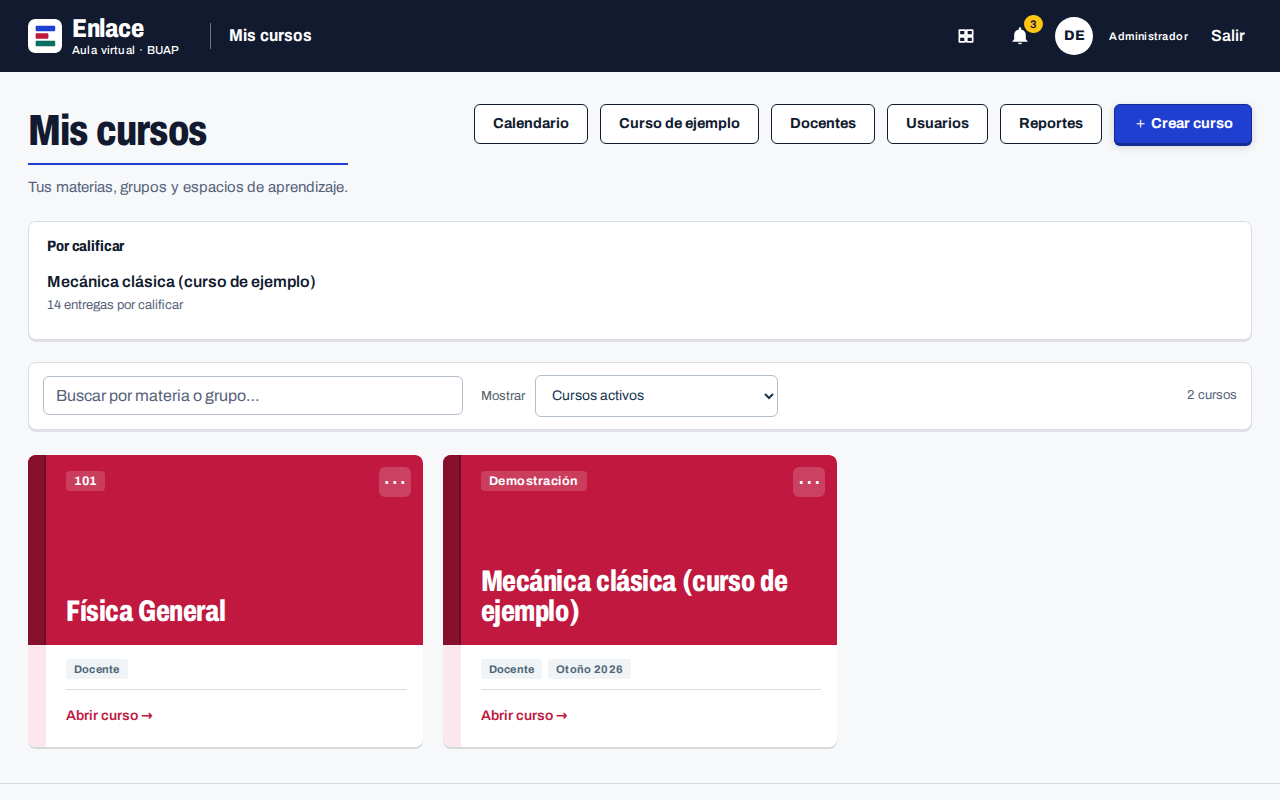
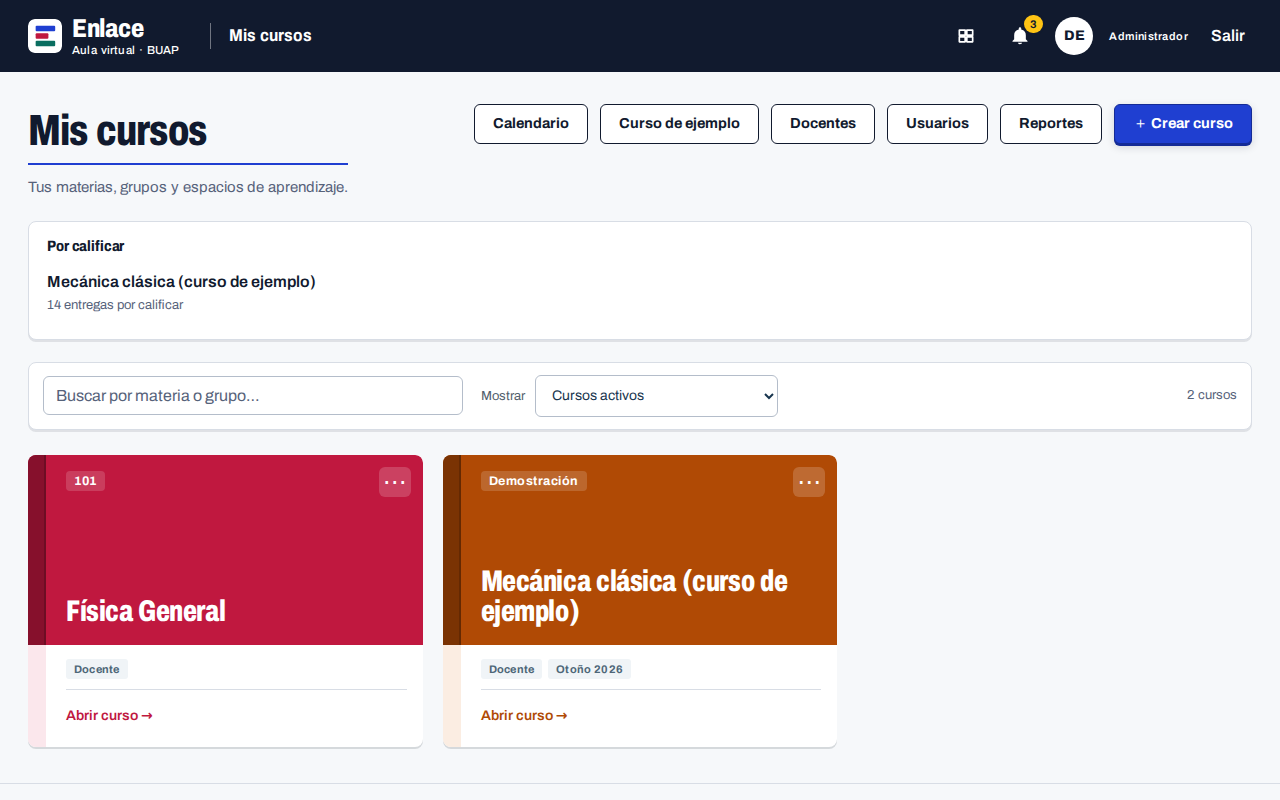
Rediseño 12.37: alerta del libro con subrayado, títulos de material en tinta negra, versión y documentación
Claude-Session: https://claude.ai/code/session_01C1oRgaYWxPpbnk2a9i39sw

Changed region(s): [[0.3438, 0.5625, 0.6562, 0.8125], [0.375, 0.875, 0.4375, 0.9062]]

diff --git a/src/public/coleccion.css b/src/public/coleccion.css
@@ -380,3 +380,8 @@ article.course .course-card-footer .text-btn { color: var(--tomo) !important; }
 .gradebook td { border-right: 1px solid var(--line); }
 /* Sin sesión no hay «Mis cursos» que mostrar en la barra. */
 body.signed-out #crumb { visibility: hidden; }
+/* Alerta del libro: además del rojo, un subrayado grueso (no depende solo del color). */
+.gradebook .grade-low { text-decoration: underline; text-decoration-thickness: 2px; text-underline-offset: 3px; }
+/* Títulos de materiales en tinta negra; la tinta del tomo solo al pasar el cursor (listas largas sin ruido). */
+.material-entry summary strong { color: var(--tinta); }
+.material-entry summary:hover strong { color: var(--tomo); }

diff --git a/DESIGN.md b/DESIGN.md
@@ -1,0 +1,291 @@
+---
+name: Enlace
+description: Aula virtual de la BUAP como una colección de divulgación científica; cada curso es un tomo con su tinta.
+colors:
+  tinta: "#111a2e"
+  tinta-2: "#1d2942"
+  senal: "#ffc414"
+  ink-soft: "#3b475c"
+  ink-faint: "#56627a"
+  line: "#d8dde5"
+  line-strong: "#b4bdca"
+  surface: "#ffffff"
+  canvas: "#f6f8fa"
+  table-head: "#f4f6f9"
+  alerta: "#b42318"
+  cobalto: "#1f3fd1"
+  cobalto-lomo: "#142b96"
+  cobalto-papel: "#e8ecfb"
+  verdete: "#0a6e60"
+  verdete-lomo: "#064a40"
+  verdete-papel: "#e2f1ee"
+  granza: "#c0183f"
+  granza-lomo: "#86102c"
+  granza-papel: "#fbe7ec"
+  ciruela: "#6a2c9e"
+  ciruela-lomo: "#4a1e70"
+  ciruela-papel: "#f0e8f7"
+  ocre: "#b04a05"
+  ocre-lomo: "#7a3303"
+  ocre-papel: "#fbede2"
+  musgo: "#4b6a0f"
+  musgo-lomo: "#33490a"
+  musgo-papel: "#edf2e1"
+typography:
+  display:
+    fontFamily: "Archivo, 'Arial Narrow', sans-serif"
+    fontSize: "clamp(34px, 5vw, 60px)"
+    fontWeight: 800
+    lineHeight: 0.98
+    fontVariation: "'wdth' 70"
+  headline:
+    fontFamily: "Archivo, 'Arial Narrow', sans-serif"
+    fontSize: "clamp(30px, 3.4vw, 44px)"
+    fontWeight: 800
+    lineHeight: 1.04
+    letterSpacing: "-0.02em"
+    fontVariation: "'wdth' 75"
+  title:
+    fontFamily: "Archivo, 'Arial Narrow', sans-serif"
+    fontSize: "20px"
+    fontWeight: 800
+    fontVariation: "'wdth' 80"
+  cover-title:
+    fontFamily: "Archivo, 'Arial Narrow', sans-serif"
+    fontSize: "clamp(24px, 2.4vw, 30px)"
+    fontWeight: 800
+    lineHeight: 1.02
+    letterSpacing: "-0.015em"
+    fontVariation: "'wdth' 72"
+  body:
+    fontFamily: "Archivo, ui-sans-serif, system-ui, -apple-system, 'Segoe UI', sans-serif"
+    fontWeight: 400
+    fontVariation: "'wdth' 100"
+  label:
+    fontFamily: "Archivo, 'Arial Narrow', sans-serif"
+    fontWeight: 800
+    letterSpacing: "0.04em"
+    fontVariation: "'wdth' 85"
+rounded:
+  pill: "4px"
+  sm: "6px"
+  md: "8px"
+spacing:
+  card-gap: "20px"
+  cover-pad: "16px 16px 18px 38px"
+  spine: "18px"
+  spine-hub: "26px"
+components:
+  button-primary:
+    backgroundColor: "{colors.cobalto}"
+    textColor: "{colors.surface}"
+    rounded: "{rounded.sm}"
+  button-primary-hover:
+    backgroundColor: "{colors.cobalto-lomo}"
+  button-secondary:
+    backgroundColor: "{colors.surface}"
+    textColor: "{colors.tinta}"
+    rounded: "{rounded.sm}"
+  button-secondary-hover:
+    backgroundColor: "{colors.cobalto-papel}"
+    textColor: "{colors.cobalto-lomo}"
+  header-bar:
+    backgroundColor: "{colors.tinta}"
+    textColor: "{colors.surface}"
+  tab-bar:
+    backgroundColor: "{colors.cobalto-lomo}"
+    textColor: "{colors.surface}"
+  tab-active:
+    backgroundColor: "{colors.surface}"
+    textColor: "{colors.cobalto-lomo}"
+    rounded: "{rounded.sm}"
+  course-cover:
+    backgroundColor: "{colors.cobalto}"
+    textColor: "{colors.surface}"
+    rounded: "{rounded.md}"
+    padding: "{spacing.cover-pad}"
+    height: "190px"
+  badge-count:
+    backgroundColor: "{colors.senal}"
+    textColor: "{colors.tinta}"
+  count-pill:
+    backgroundColor: "{colors.tinta}"
+    textColor: "{colors.surface}"
+    rounded: "{rounded.pill}"
+  role-pill:
+    backgroundColor: "{colors.cobalto-papel}"
+    textColor: "{colors.cobalto-lomo}"
+    rounded: "{rounded.pill}"
+  input:
+    backgroundColor: "{colors.surface}"
+    textColor: "{colors.tinta}"
+    rounded: "{rounded.sm}"
+  panel:
+    backgroundColor: "{colors.surface}"
+    rounded: "{rounded.md}"
+  toast:
+    backgroundColor: "{colors.tinta}"
+    textColor: "{colors.surface}"
+    rounded: "{rounded.sm}"
+---
+
+# Design System: Enlace
+
+## Overview
+
+**Creative North Star: "La Colección de Divulgación"**
+
+Enlace se ve como una colección de libros de divulgación científica: papel blanco frío, una tinta azul casi negra para el texto y la barra, y seis tintas planas de imprenta. Cada curso es un tomo con su propia tinta (cobalto, verdete, granza, ciruela, ocre o musgo, elegida con `data-theme` 1 a 6 y aplicada al curso abierto con `body[data-tomo]`). La tinta no salpica: llena regiones completas (la portada del tomo, la barra del curso, la pestaña activa, la acción principal).
+
+Es una interfaz con energía, no calmada, pero densa y de trabajo: tablas de columnas fijas, cifras tabulares y títulos condensados pesados que ocupan poco ancho. Rechaza el LMS de tarjetas azul-turquesa, los mosaicos de métricas y las sombras suaves y difusas. Toda la capa vive en `src/public/coleccion.css`, cargada después de `tema.css` y `movil.css`; solo cambia la apariencia.
+
+La marca son tres lomos horizontales que forman una E (cobalto, granza y verdete sobre un cuadro blanco de esquina 7 px), en la barra de `index.html` y en `login.js`.
+
+**Key Characteristics:**
+- Una tinta por tomo, con tres tonos: `--tomo` (plana), `--tomo-lomo` (oscura) y `--tomo-papel` (fondo claro).
+- Texto blanco sobre cualquier tinta y lomo, siempre a más de 4.5:1.
+- Archivo variable: condensada pesada para títulos y portadas, ancho normal para la interfaz.
+- Filete de tinta de 2 px bajo títulos, encabezados de tabla y diálogos.
+- Esquinas de 6 y 8 px; sombras cortas con desplazamiento, nunca difusas en reposo.
+
+## Colors
+
+Papel frío y tinta azul-negra, con seis tintas planas saturadas que solo existen dentro de las regiones del tomo.
+
+### Primary (las tintas del tomo)
+Cada tinta trae su lomo (hover, barra de pestañas, lomo de la portada) y su papel (fondos de selección, pastillas, avisos).
+- **Cobalto** (#1f3fd1 / lomo #142b96 / papel #e8ecfb): tinta por omisión (`:root` y tema 1).
+- **Verdete** (#0a6e60 / #064a40 / #e2f1ee): tema 2.
+- **Granza** (#c0183f / #86102c / #fbe7ec): tema 3.
+- **Ciruela** (#6a2c9e / #4a1e70 / #f0e8f7): tema 4.
+- **Ocre** (#b04a05 / #7a3303 / #fbede2): tema 5.
+- **Musgo** (#4b6a0f / #33490a / #edf2e1): tema 6.
+
+Las capas viejas leen `--c1`, `--c2`, `--brand`, `--accent` y `--link`; `coleccion.css` las vuelve a declarar en cada elemento con tinta para que apunten a `--tomo`.
+
+### Secondary
+- **Amarillo de Señal** (#ffc414): solo contadores (`.badge-count`), la barra de vista previa y el reloj del examen en aviso. Tinta encima (10.9:1).
+- **Rojo de Alerta** (#b42318): calificación baja en el libro y nada más.
+
+### Neutral
+- **Tinta de Colección** (#111a2e): texto, barra superior fuera de un curso, encabezado del intento, avisos emergentes, anillo de foco.
+- **Tinta 2** (#1d2942): variante de la tinta.
+- **Gris Pizarra** (#3b475c): texto secundario (`--ink-soft`).
+- **Gris Nota** (#56627a): texto tenue, marcadores y pie (`--ink-faint`); no hay texto más claro que este.
+- **Papel Frío** (#f6f8fa): fondo de la página (`--canvas`).
+- **Blanco** (#ffffff): paneles y campos.
+- **Encabezado de Tabla** (#f4f6f9): fondo de `th` y de guías.
+- **Filete** (#d8dde5) y **Filete Fuerte** (#b4bdca): bordes de paneles y de campos.
+
+### Named Rules
+**The Tinta en Regiones Rule.** La tinta del tomo llena regiones completas (portada, barra, pestaña activa, botón principal, elemento activo del índice); no se usa como salpicadura decorativa ni en degradados.
+
+**The Una Acción Rule.** Un solo color de acción por contexto: la tinta del tomo abierto (o cobalto fuera de un curso).
+
+**The Señal Escasa Rule.** El amarillo #ffc414 solo marca lo que pide atención; nunca es fondo de sección ni decoración.
+
+**The Cifra Neutra Rule.** En el libro las calificaciones aprobadas van en tinta (#111a2e), nunca en la tinta del tomo: con granza parecerían reprobadas. Solo la baja va en rojo (#b42318). Sin rellenos pastel en las celdas.
+
+## Typography
+
+**Display Font:** Archivo variable (pesos 100–900, ancho 62–125 %), con 'Arial Narrow' como respaldo.
+**Body Font:** Archivo al 100 % de ancho, con ui-sans-serif y system-ui.
+
+**Character:** Una sola familia en dos voces: condensada y pesada para títulos y portadas (como el lomo de un libro), normal para leer y trabajar. Se sirve local desde `src/public/vendor/archivo/` (latin y latin-ext).
+
+### Hierarchy
+- **Display** (800, clamp(34px, 5vw, 60px), 0.98, ancho 70 %): título del curso en la portada del tomo (`.hub-banner h1`); 34 px en el teléfono.
+- **Headline** (800, clamp(30px, 3.4vw, 44px), 1.04, −0.02em, ancho 75 %): `h1` de cada pantalla, con filete de 2 px de la tinta; 30 px en el teléfono.
+- **Título de portada** (800, clamp(24px, 2.4vw, 30px), 1.02, ancho 72 %): nombre del curso en el estante, blanco, hasta tres líneas.
+- **Title** (800, 20px, ancho 80 %): `h2` de paneles; diálogos a 24 px y 78 %; `h2` genérico 750 al 85 %, `h3` 700 al 90 %.
+- **Body** (400, ancho 100 %): todo el texto de interfaz; `word-spacing: 0.04em` porque el espacio de Archivo es angosto.
+- **Label** (800, ancho 85 %, 0.04em): encabezados de tabla, con filete inferior de 2 px de tinta.
+
+### Named Rules
+**The Espacio Abierto Rule.** En anchos condensados (títulos, portadas, `th`) se abre el espacio entre palabras a 0.08em.
+
+**The Cifra Tabular Rule.** Tablas, libro, reloj del examen y contadores usan `font-variant-numeric: tabular-nums`.
+
+## Layout
+
+La página es una columna (`.shell`) sobre papel frío (#f6f8fa): barra de tinta, barra de pestañas del lomo y contenido. Mis cursos es un estante de portadas con separación de 20 px. Las portadas reservan a la izquierda el lomo (18 px en el estante, 26 px en la portada del curso) y su relleno lo respeta (38 px en el estante, 58 px en la portada del curso).
+
+Hasta 720 px la barra de pestañas se cambia por `#bottomnav` (blanco, con filete superior de 2 px de la tinta; la pestaña activa en el lomo sobre papel de la tinta), las portadas del estante se vuelven franjas de al menos 112 px con lomo de 14 px, y la portada del curso usa lomo de 18 px. En el celular, lo siguiente va primero.
+
+## Elevation & Depth
+
+Plano por omisión: los paneles se separan por filete (1 px #d8dde5) y una sombra corta con desplazamiento, sin difuminado.
+
+### Shadow Vocabulary
+- **Desplazamiento de panel** (`box-shadow: 0 2px 0 rgba(17, 26, 46, 0.1)`): paneles, tarjetas del inicio, tablas, entradas de material, unidades, acceso.
+- **Portada en el estante** (`box-shadow: 0 2px 0 rgba(17, 26, 46, 0.14)`); al pasar el puntero, `0 3px 0` del lomo de la tinta.
+- **Botón principal** (`box-shadow: 0 2px 0 var(--tomo-lomo), 0 3px 8px rgba(17, 26, 46, 0.16)`); al presionar baja a `0 1px 0`.
+- **Diálogo y acceso** (`--shadow-lg: 0 14px 34px rgba(17, 26, 46, 0.2)`): solo lo que flota sobre la página.
+
+### Named Rules
+**The Desplazamiento Corto Rule.** Las superficies en la página se levantan con un desplazamiento de 2 a 3 px, no con un halo difuso; la sombra grande queda para diálogos.
+
+**The Nada Se Mueve Rule.** Los estados se marcan con color y sombra, nunca con `transform` (las portadas anulan el `translate` de capas viejas).
+
+## Shapes
+
+Esquinas moderadas: 6 px (`--radius-sm`) en botones, campos, menús y avisos; 8 px (`--radius`) en paneles, portadas, diálogos y la caja de acceso; 4 px en pastillas y código de curso. Los filetes de tinta son de 2 px; los bordes de campos y del botón secundario de 1.5 px. El lomo es una franja rectangular a todo lo alto de la portada, con una sombra interior de 2 px.
+
+## Components
+
+### Buttons
+- **Shape:** esquina de 6 px, peso 700.
+- **Primary:** fondo de la tinta, borde de 1 px del lomo, texto blanco, sombra de desplazamiento del lomo. Hover: fondo del lomo.
+- **Secondary:** fondo blanco, borde de 1.5 px de tinta, texto de tinta. Hover: papel de la tinta, borde de la tinta, texto del lomo.
+- **Texto / enlace de tabla:** tinta del tomo, 700; hover al lomo con subrayado.
+- **Focus:** contorno de 3 px de tinta con 2 px de separación; dentro de un curso, del lomo; en barras de tinta, blanco.
+- **Disabled:** opacidad 0.55, sin sombra.
+
+### Chips
+- **Pastilla de rol / estado:** papel de la tinta con texto del lomo, esquina de 4 px, 700.
+- **Pastilla de conteo:** tinta (#111a2e) con texto blanco.
+- **Contador de avisos:** amarillo de señal con tinta, aro de 2 px del color de la barra.
+
+### Cards / Containers
+- **Corner Style:** 8 px.
+- **Background:** blanco sobre papel frío.
+- **Shadow Strategy:** desplazamiento de panel (ver Elevation).
+- **Border:** 1 px #d8dde5.
+- **Títulos:** `h2` condensado 800 a 20 px.
+
+### Inputs / Fields
+- **Style:** borde de 1.5 px #b4bdca, esquina de 6 px, marcador en #56627a.
+- **Focus:** borde de la tinta y aro de 3 px del papel de la tinta; `accent-color` y `caret-color` de la tinta.
+
+### Navigation
+- **Barra superior:** tinta (#111a2e) en Mis cursos, la tinta del tomo dentro de un curso; transición de color de 0.45 s `cubic-bezier(0.16, 1, 0.3, 1)` (sin transición con movimiento reducido). Marca condensada 800 a 26 px en blanco.
+- **Pestañas (`#topnav`):** fondo del lomo, texto blanco 600; hover blanco al 16 %; activa en bloque blanco con texto del lomo, 800.
+- **Pestañas de pantalla (`.home-tabs`):** subrayado de la tinta, activa en 800.
+- **Índice de unidades:** el elemento activo es un bloque lleno de la tinta con texto blanco.
+
+### Portada del tomo (signature)
+En el estante: tinta plana a lo ancho, lomo de 18 px a la izquierda, código del grupo en una etiqueta blanca al 16 %, título condensado blanco abajo a la izquierda, al menos 190 px de alto; toda la portada abre el curso y el menú «⋯» queda encima. Con imagen de portada, un velo de tinta (#111a2e del 20 al 78 %) sobre la foto. Archivada, en gris (`grayscale(0.85)`). Dentro del curso, `.hub-banner` repite la portada a mayor escala con lomo de 26 px; las tarjetas de unidad alternan tinta y lomo.
+
+### Diálogo y avisos
+Diálogo de 8 px sin borde, sombra grande y filete de 2 px de la tinta bajo el encabezado (título 24 px condensado). Avisos (`.notice`) en papel de la tinta con título del lomo. Notificación emergente (`#toast`) en tinta con texto blanco.
+
+### Intento de evaluación
+Encabezado fijo en tinta con texto blanco; el reloj pasa a amarillo de señal en aviso y a #ff8a8a cuando queda poco. La opción elegida se marca con papel de la tinta y un aro interior de 1.5 px de la tinta.
+
+## Do's and Don'ts
+
+### Do:
+- **Do** tomar todo color de acción de `--tomo`, `--tomo-lomo` y `--tomo-papel`, para que la pantalla cambie con el curso.
+- **Do** poner texto blanco sobre la tinta y el lomo, y texto del lomo sobre el papel de la tinta.
+- **Do** poner el filete de 2 px de la tinta bajo el `h1` de cada pantalla.
+- **Do** usar Archivo condensada (ancho 70–85 %, 700–800) para títulos y ancho 100 % para la interfaz.
+- **Do** separar superficies con filete de 1 px y desplazamiento `0 2px 0`.
+- **Do** dejar el texto tenue en #56627a o más oscuro.
+
+### Don't:
+- **Don't** usar sombras difusas en paneles o tarjetas en reposo; la sombra grande es solo para diálogos y la caja de acceso.
+- **Don't** usar `transform` en `:hover` o `:active`.
+- **Don't** pintar calificaciones aprobadas con la tinta del tomo ni rellenar celdas del libro con colores pastel.
+- **Don't** usar el amarillo de señal fuera de contadores, la barra de vista previa y el reloj.
+- **Don't** poner antetítulos sobre los títulos (`.workspace-eyebrow` está oculto).
+- **Don't** mezclar dos tintas de tomo en la misma pantalla de curso.

diff --git a/CLAUDE.md b/CLAUDE.md
@@ -83,9 +83,10 @@ Navegador para revisar la interfaz: la habilidad `playwright-cli` (`.claude/skil
 - **12.34 (seguridad)**: `assertWritable()` revisa el `course` de la URL **y** el del cuerpo (cualquiera archivado → 409). `POST /api/attempt` sin `aula_attempt_starts` llama `assertOpen()` y, si hay `startCodeOf()`, exige empezar. Topes de códigos (examen, `/api/attempt/unlock`, PIN de asistencia): el fallo se cuenta **antes** de comparar con un `UPSERT/UPDATE … WHERE contador < tope RETURNING` y se descuenta al acertar; cualquier tope nuevo debe hacerse igual (leer y luego comparar permite solicitudes paralelas). `/api/upload` aparta la fila de `aula_files` con un `INSERT … SELECT … WHERE` condicionado a las cuotas antes del `put` en R2. Las altas de alumnos no tocan filas `role='teacher'`. SEB: la llave que arma Enlace se puede calcular con datos públicos (límite documentado en `LEEME.md`, disuasivo). Prueba: `scripts/test-seguridad.mjs` (con solicitudes en paralelo).
 - **Diseño 12.35**: `--ink-faint` es `#5f6f7e` (≥ 4.5:1 sobre blanco, `--canvas` y paneles); no uses grises más claros para texto. `.shell` es una columna flex (pie de página al fondo): sus hijos llevan `width: 100%` para que una tabla ancha no ensanche la página. La ayuda del libro va en `details.grade-help` (abierto salvo en ≤ 720 px; en las pruebas de interfaz no hay `matchMedia`). En ≤ 720 px el índice de unidades es una fila deslizable y los botones de texto miden ≥ 24 px. Auditoría: capturas a 360 y 1280 px con contraste, objetivos táctiles, `h1` y desbordamiento horizontal.
 - **Diseño 12.36** (crítica de impeccable en `.impeccable/critique/`, `PRODUCT.md`): en el intento, `#quizAnswered` y `#quizClockAlert` (avisos a 5 y 1 min) en `.quiz-attempt-head`, fijo también en ≤ 720 px; el envío manual pasa por `examConfirm()` desde un `submit` en captura (`form.dataset.confirmed`), el automático por tiempo no; `quizLastResult.fresh` lleva la vista al resultado. `studentPendingTasks()` (`movil.js`) es la misma regla que «Por entregar» de `dashboard.js` (ventana −7/+14 días): úsala para cualquier conteo de pendientes del alumno; `studentTaskState()` (`workspace.js`) ordena Actividades del alumno. Anillo de foco sólido `#0a7383`; acento oscuro `#0a7383` para texto pequeño y fondos con texto blanco. `teacherQuestionText()`/`teacherFormula()` marcan los datos por alumno con `var.qvar`. `details.more-actions` agrupa acciones poco frecuentes.
+- **Rediseño «Colección» 12.37** (`src/public/coleccion.css`, capa superior cargada después de `movil.css`; contrato en `.impeccable/surfaces/`, sistema en `DESIGN.md`): cada curso es un tomo con su tinta `--tomo`/`--tomo-lomo`/`--tomo-papel`, de `data-theme` (1–6) en portadas y de `body[data-tomo]` (lo pone `workspaceNav()`) en el curso abierto; `--brand`/`--accent`/`--link` se redeclaran en cada elemento con tinta (una variable con `var()` se resuelve donde se declara). Barra fuera de curso en `--tinta` #111a2e; `--senal` (amarillo) solo para contadores. Tipografía Archivo variable (`vendor/archivo/`), condensada para títulos; Inter ya no existe. Sin antetítulos (`.workspace-eyebrow` oculto). Logotipo de tres lomos en `index.html` y `login.js`; íconos de `icons/` generados del mismo SVG (`sw.js` usa la caché `enlace-v2`). Ajusta la apariencia en `coleccion.css`.
 - **Curso de ejemplo** (`demo.js`, `POST /api/demo-course`): arma en memoria una materia completa con alumnos ficticios (`@ejemplo.invalid`, sin `user_id`; sus publicaciones e intentos usan `demo:<miembro>` como autor) y la inserta en un solo `db.batch` con `json_each` por tabla. Si cambias el esquema de una tabla que llena, actualiza `demoCourse()` y `scripts/test-curso-ejemplo.mjs`.
 - **Respaldos y publicación**: `backup.js` (solo admin) lista los objetos de R2 (uno por llave: `coalesce(r2_key, id)`), los sirve como adjunto y restaura solo los que faltan, registrados y con el tamaño exacto; la pantalla está en `admin-tools.js` (`backupFiles`/`restoreFiles` sobre `showDirectoryPicker`, probadas con una carpeta en memoria). La exportación de D1 no carga tal cual en una base vacía (llaves foráneas hacia tablas creadas después): `scripts/lib/dump.mjs` la reordena y la comprueba con `node:sqlite`; `npm run restaurar` solo escribe en bases vacías. `scripts/revisar-config.mjs` detiene `deploy`/`db:migrate` con los marcadores del ZIP, y `configurar` recuerda base/correo/URL en `~/.enlace/configuracion.json`. Los scripts usan el binding `DB` (no el nombre) para que funcionen con una base restaurada; al leer `--json` de wrangler, usa solo stdout (los avisos en stderr también llevan corchetes).
 - **PWA**: `manifest.webmanifest` y `sw.js` (solo guarda la interfaz; nunca `/api`, `/auth` ni `/salud`). `/salud` comprueba Worker y D1 para `vigilancia.yml`; `respaldo.yml` exporta D1 cada semana a R2 privado.
 - **Texto con formato** (`src/public/richtext.js`): el contenido se guarda como texto con marcas tipo Markdown y se convierte a HTML en el navegador con `richText(texto, fileIds)`: escapa todo primero, aparta fórmulas LaTeX (KaTeX las dibuja después, `math.js`) y solo genera enlaces http(s) e imágenes de archivos del propio elemento. `scripts/test-formato-ui.mjs` tiene los casos de XSS: amplíalos si tocas el formato.
 - **Navegación y teléfono** (`navegacion.js`, `movil.js`, `movil.css`): la ruta de cada pantalla (`#c=curso&s=sección&d=elemento&m=unidad&a=sesión&r=alumno&h=vista`) se calcula de `current`/`section`/`detail`… cada vez que cambia `#main` (`syncRoute()`), así «Atrás» regresa a la pantalla anterior; al abrir un `<dialog>` se agrega una entrada para que «Atrás» lo cierre (para navegar después de cerrar una ventana usa `closeDialogThen()`). Si agregas una sección con detalle, inclúyela en `ROUTE_DETAIL`. Hasta 720 px, `movil.css` cambia la barra superior por `#bottomnav` (`renderBottomNav()`), el menú «Más» es `#sheet`, `#modal` ocupa toda la pantalla y las tablas se vuelven tarjetas con `labelTables()` (excepto dentro de `.gradebook`, `.rubric-editor` o `.keep-table`). Revisa las pantallas nuevas a 360 px de ancho.
-- **Estilos**: capas históricas (`styles.css` → … → `fase2.css`) y encima `tema.css` (cargado al final) con los tokens de diseño; ajusta la apariencia en `tema.css` en lugar de editar las capas viejas (y lo exclusivo del teléfono en `movil.css`, que va después). `styles.css` tiene reglas genéricas para `nav button` de una barra lateral antigua: cualquier `<nav>` nuevo debe anularlas. Hay reglas antiguas con `!important` y un `aside { position: fixed }` global: no uses `<aside>`.
+- **Estilos**: capas históricas (`styles.css` → … → `fase2.css`) y encima `tema.css` (cargado al final) con los tokens de diseño; ajusta la apariencia en `coleccion.css` (encima de `tema.css`) en lugar de editar las capas viejas (y lo exclusivo del teléfono en `movil.css`, que va después). `styles.css` tiene reglas genéricas para `nav button` de una barra lateral antigua: cualquier `<nav>` nuevo debe anularlas. Hay reglas antiguas con `!important` y un `aside { position: fixed }` global: no uses `<aside>`.

diff --git a/LEEME.md b/LEEME.md
@@ -1,9 +1,20 @@
-# Enlace · versión 12.36
+# Enlace · versión 12.37
 
 Plataforma académica independiente para docentes y alumnos de cualquier academia (nació en la Academia de Física de la BUAP), con interfaz inspirada en Brightspace.
 No es el código de D2L Brightspace ni una plataforma oficial de la BUAP.
 
 Esta versión se despliega en **tu propia cuenta de Cloudflare** (Workers + D1 + R2, plan gratuito) y ya no depende de ChatGPT Sites.
+
+## Novedades de la versión 12.37 (rediseño visual «Colección»)
+
+Enlace tiene una imagen nueva. Solo cambia la apariencia: funciones, textos y datos son los mismos, y no hay migraciones.
+- **Cada curso es un tomo de una colección**, con su propia tinta de imprenta (cobalto, verdete, granza, ciruela, ocre o musgo; es el color que ya tenía asignado cada curso o el que elegiste en «Editar curso y portada»). Dentro de un curso, la barra, las pestañas y el botón principal toman esa tinta, así se sabe de un vistazo en qué grupo estás.
+- **Mis cursos** es un estante de portadas: el nombre del curso en grande sobre su tinta, con el lomo a la izquierda. Toda la portada abre el curso.
+- **Logotipo nuevo**: tres lomos de colores que forman una E. También cambian el ícono de la pestaña y el de la app instalada en el celular (puede tardar en actualizarse hasta que el teléfono vuelva a cargar Enlace).
+- **Tipografía nueva** (Archivo), servida desde Enlace mismo: títulos condensados y fuertes, cifras alineadas en las tablas. La página pesa menos que antes.
+- Los contadores de avisos van en amarillo, y en el libro de calificaciones solo lo reprobatorio va en rojo.
+
+Antes de publicar, revisa en tu navegador Mis cursos, un curso, el libro de calificaciones y un examen en el celular.
 
 ## Novedades de la versión 12.36 (revisión de diseño con impeccable)
 
